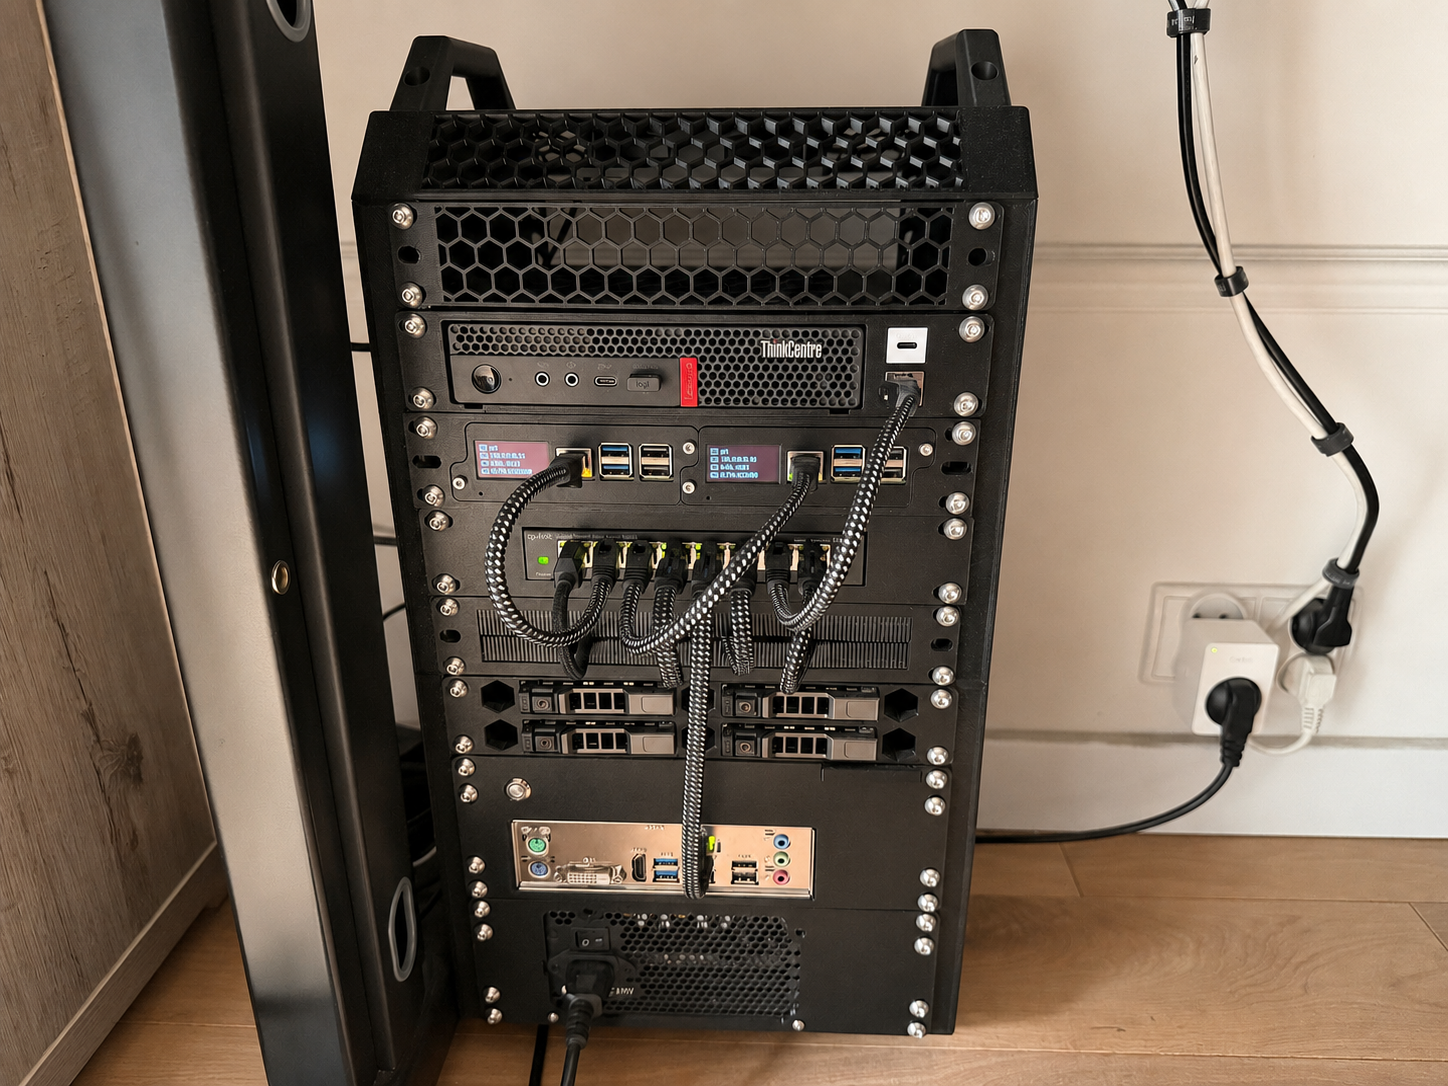
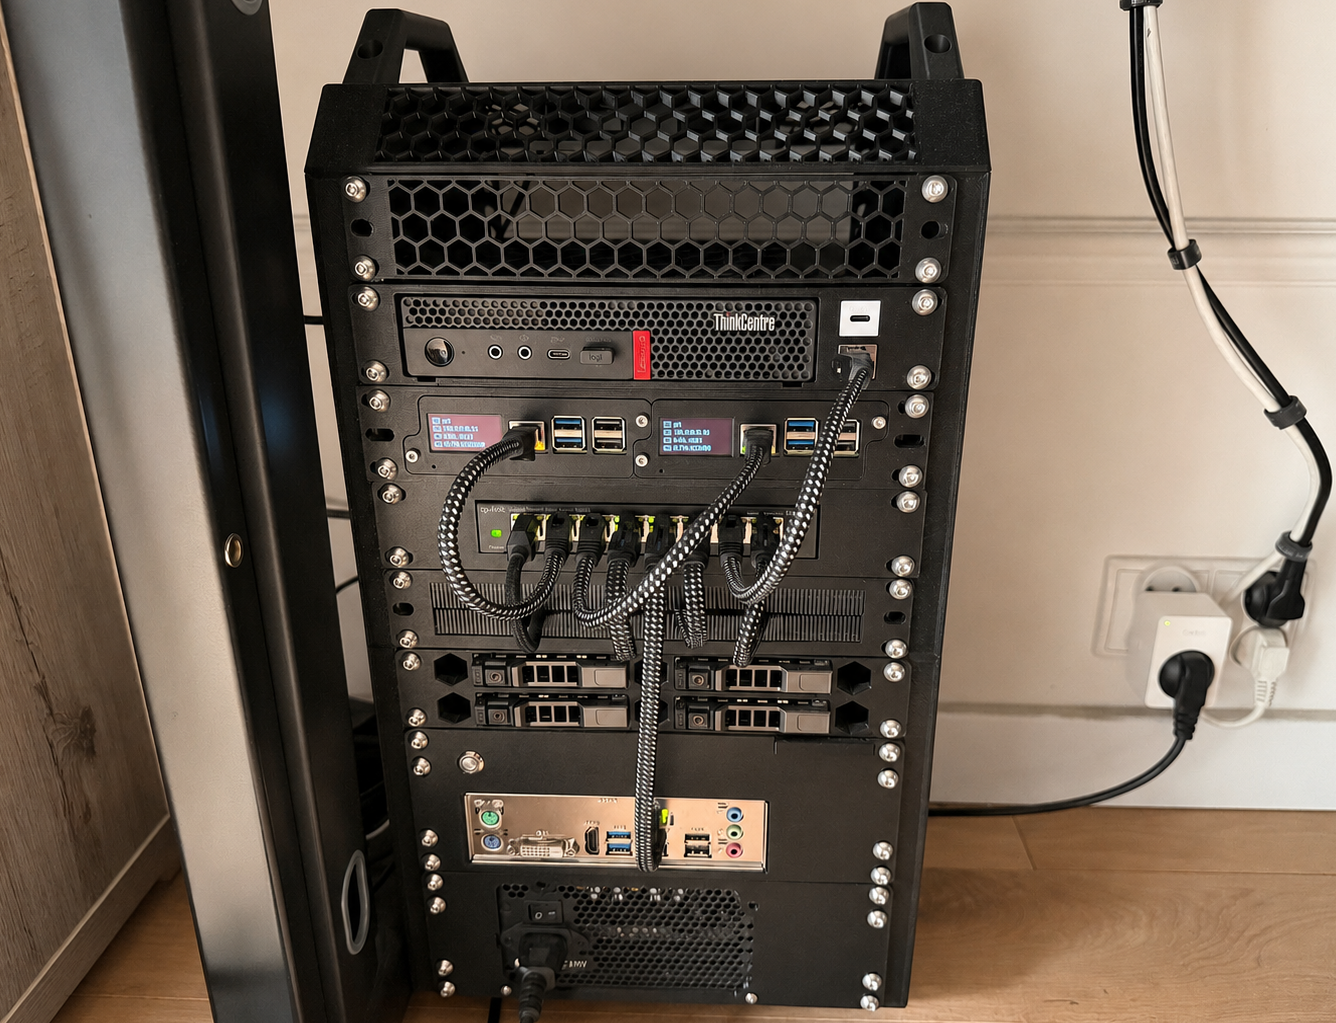
feat: add Raspberry Pi monitor project and improve responsive cards

diff --git a/src/config/projects.js b/src/config/projects.js
@@ -2,6 +2,8 @@ import hedgeHopImage from '../assets/hedgehop.webp';
 import hedgeHopLearningImage from '../assets/hedgehop2.webp';
 import homeLabDashboardImage from '../assets/homelabdash.webp';
 import homeLabImage from '../assets/homelabrack.webp';
+import piOledImage from '../assets/pi5.webp';
+import piOledCodeImage from '../assets/pi5code.webp';
 import touchOfBeautyImage from '../assets/touchofbeauty.webp';
 import touchOfBeautyAdminImage from '../assets/touchofbeauty2.webp';
 
@@ -50,6 +52,28 @@ export const projects = [
 			{
 				src: homeLabImage,
 				alt: 'Custom homelab rack with compute nodes, networking equipment, and storage',
+			},
+		],
+	},
+	{
+		slug: 'pi-oled-stats-sh1106',
+		title: 'Raspberry Pi Monitor',
+		eyebrow: 'Python script',
+		description: 'Displays hostname, IP, CPU load, temperature, and memory usage on an SH1106 OLED.',
+		technologies: ['Python', 'Raspberry Pi', 'Linux'],
+		source: {
+			provider: 'github',
+			url: 'https://github.com/adamsiem4/pi-oled-stats-sh1106',
+			private: false,
+		},
+		images: [
+			{
+				src: piOledImage,
+				alt: 'Raspberry Pi system statistics displayed on an SH1106 OLED',
+			},
+			{
+				src: piOledCodeImage,
+				alt: 'Python source code for the Raspberry Pi SH1106 status display',
 			},
 		],
 	},
